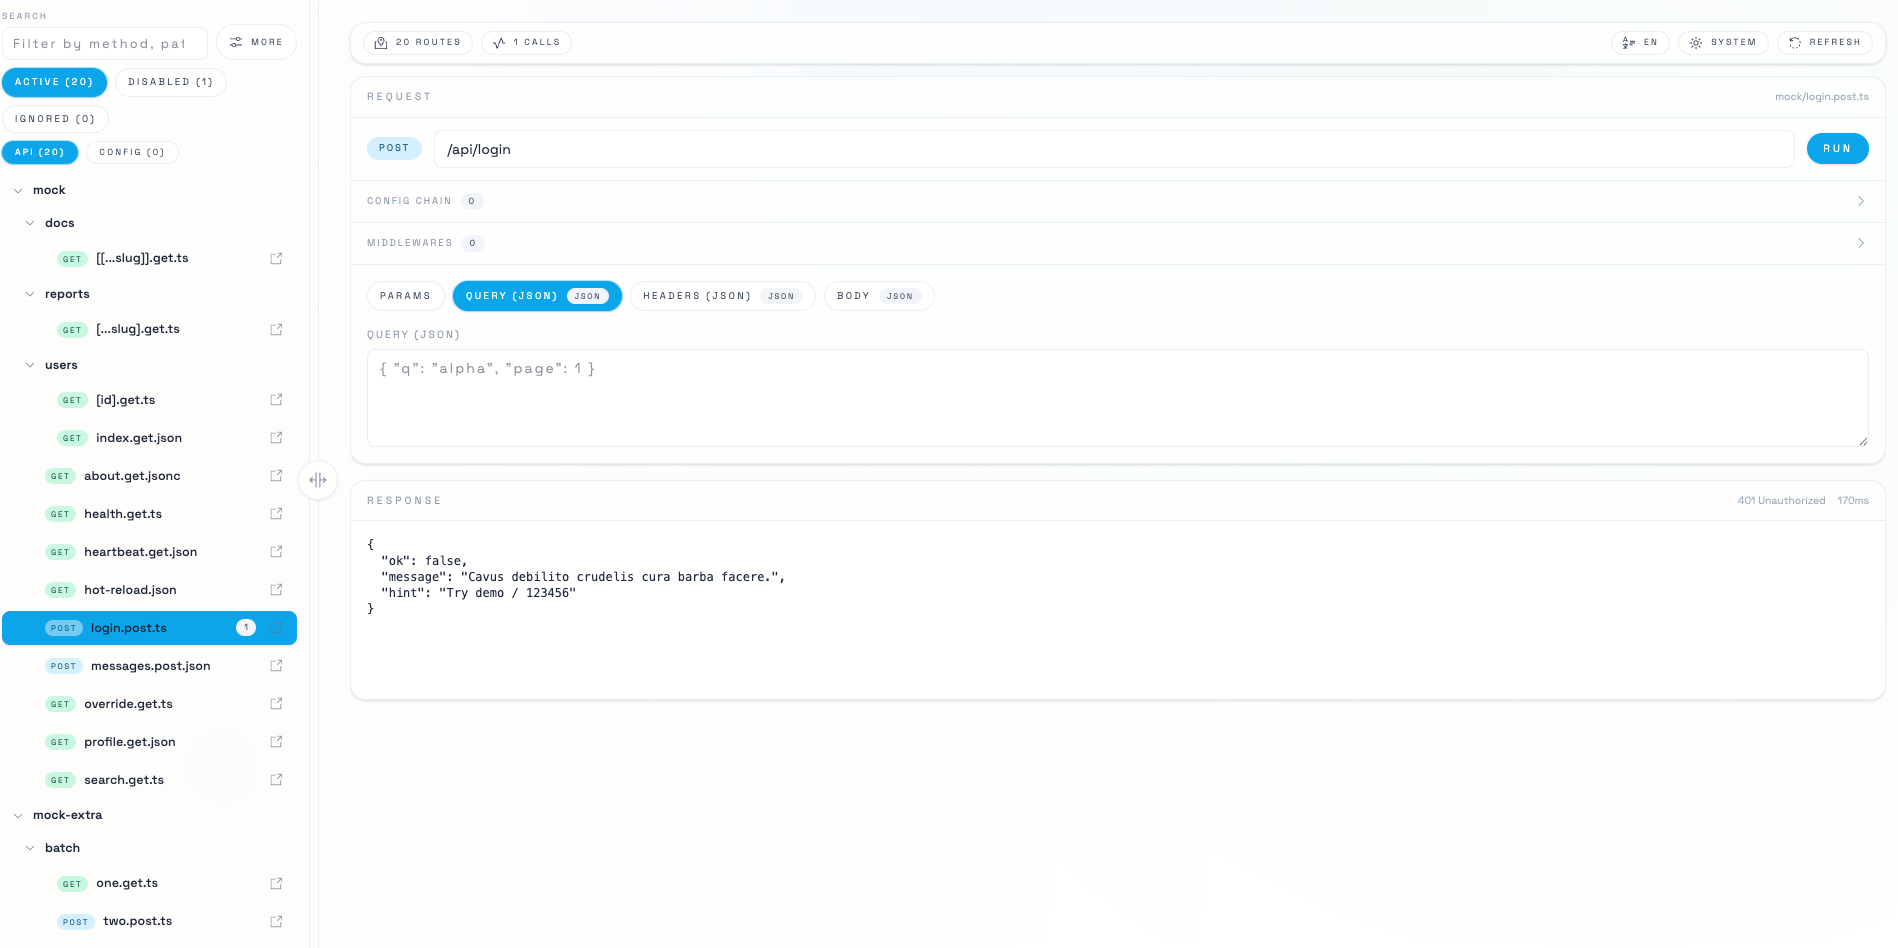
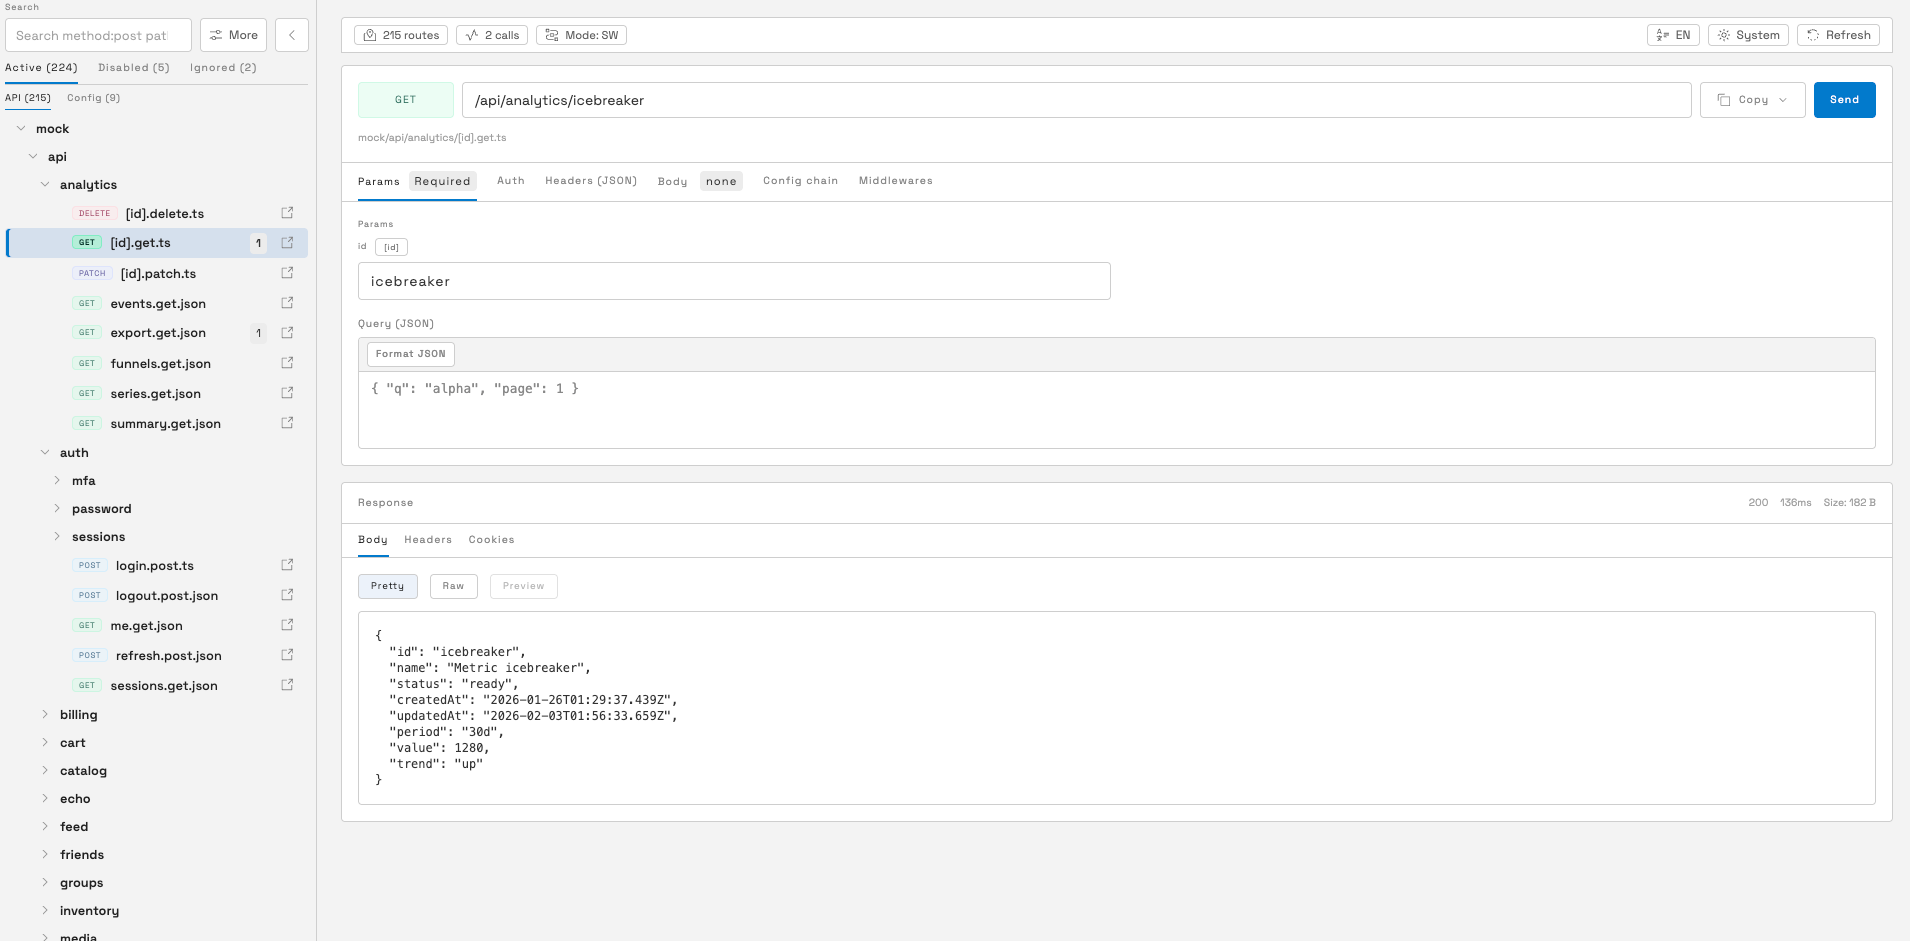
docs: update

diff --git a/apps/mokup-docs/docs/.vitepress/config.ts b/apps/mokup-docs/docs/.vitepress/config.ts
@@ -1,4 +1,5 @@
 import type { DefaultTheme } from 'vitepress'
+import process from 'node:process'
 import tailwindcss from '@tailwindcss/vite'
 import mokup from 'mokup/vite'
 import { defineConfig } from 'vitepress'
@@ -13,6 +14,10 @@ const siteDescription
   = 'Build file-driven HTTP routes with a unified runtime, serving mock or real APIs across dev and deployment.'
 const siteUrl = 'https://mokup.icebreaker.top'
 const ogImage = `${siteUrl}/brand/mokup-logo.svg`
+const isProductionBuild = process.env.NODE_ENV === 'production' || process.argv.includes('build')
+const zhNavWithDraftPreview: DefaultTheme.NavItem[] = isProductionBuild
+  ? zhNav
+  : [...zhNav, { text: '草稿预览', link: '/zh/blog/drafts' }]
 
 const themeConfig: DefaultTheme.Config = {
   socialLinks: [
@@ -71,6 +76,7 @@ export default defineConfig({
   lang: 'en-US',
   cleanUrls: true,
   lastUpdated: true,
+  srcExclude: isProductionBuild ? ['**/*.zh-draft.md', 'zh/blog/drafts.md'] : undefined,
   head: [
     ['link', { rel: 'icon', href: '/favicon.ico' }],
     [
@@ -115,7 +121,7 @@ export default defineConfig({
       description:
         '面向 Vite、Node 与 Worker 的文件式 HTTP 框架，统一运行时，覆盖 Mock 到真实 API 的完整流程。',
       themeConfig: {
-        nav: zhNav,
+        nav: zhNavWithDraftPreview,
         sidebar: zhSidebar,
         outlineTitle: '本页目录',
       },

diff --git a/apps/mokup-docs/docs/blog/mokup-unified-mock-library.zh-draft.md b/apps/mokup-docs/docs/blog/mokup-unified-mock-library.zh-draft.md
@@ -1,65 +1,38 @@
-# Mokup：统一运行时的 Mock 库（草稿）
+# Mokup：构建工具友好的可视化 Mock 工具（草稿）
 
 ![Mokup Logo](../public/brand/mokup-logo.svg)
 
-大家好，我是 icebreaker，一名前端开发者兼开源爱好者。这是我的 [GitHub](https://github.com/sonofmagic)。
+大家好，我是 [icebreaker](https://github.com/sonofmagic)，一名前端开发者兼开源爱好者。
+这篇文章只讲三件事：**构建工具友好、可视化、开发体验好**。
 
-这篇不是长篇论文，而是我把“写 mock 写到怀疑人生”的经验，浓缩成一个项目：Mokup。
-
-项目地址：[GitHub](https://github.com/sonofmagic/mokup)
-官网与文档：http://mokup.icebreaker.top/
-
-## 要点速览
-
-- Mokup 是一个“统一运行时”的 HTTP mock 库。
-- 写一次 mock，能在 Vite/Node/Service Worker/Worker 里跑。
-- 核心是：文件路由 + manifest + 同一套 runtime。
-- 适合想降低联调成本、减少“写一次改三次”的团队。
-- 如果你热爱在三个环境里修同一个 bug，这篇可以先收藏，慢慢看（我懂你）。
+项目地址：[GitHub](https://github.com/sonofmagic/mokup) , 官网与文档：http://mokup.icebreaker.top/
 
 ## Mokup 是什么
 
-Mokup 是一个基于文件路由的 HTTP mock 库，强调“统一运行时”。
+Mokup 是一个基于文件路由的 HTTP Mock 工具。你把 mock 文件放在 `mock/` 目录里，它会自动生成可匹配的路由并提供响应。
 
-你把 mock 文件放在 `mock/` 目录下，Mokup 会扫描生成 manifest，运行时读取 manifest 来匹配请求并输出响应。
+它的目标很直接：让 mock 在你已有的前端工程里尽快跑起来，减少“为了联调再造一套服务”的成本。
 
-一句话：写一次，统一运行，环境只是适配器。
+## 特性
 
-支持的场景：
+- 构建工具友好：Vite / Webpack 都能接，不需要推翻现有工程。
+- 可视化：内置 Playground，路由是否生效一眼可见。
+- 开发体验好：mock 文件和目录配置改完就刷新，不用频繁重启。
+- 能部署到多个环境：本地开发、Node 服务端、Worker、Service Worker 都可用。
 
-- Vite/Webpack dev server 中间件（本地开发）
-- 浏览器 Service Worker（更接近真实网络行为）
-- Node 服务端适配器（Express/Koa/Fastify/Hono/Connect）
-- Worker 运行时（Cloudflare Worker 等边缘环境）
+## 为什么要做它
 
-## 我为什么要写 Mokup
+很多团队的痛点不是“不会写 mock”，而是：
 
-我想要一个更好的本地 mock 体验，但又不想为每个运行时维护一套逻辑。
+- 接入步骤多，换个构建工具就要重配一次。
+- 本地排查时看不到全局路由状态，只能翻文件猜。
+- 每改一个 mock 都要重启或手动验证，反馈慢。
 
-现实是：浏览器、Node、Worker 都有各自的规则。很多工具在单一环境里很爽，一跨环境就变成“迁移与改造季”。
+Mokup 就是为了解决这三个问题：接入更轻、可视化更强、开发反馈更快。
 
-这会发生什么？
+## 构建工具友好
 
-- 前端同学为了联调改来改去，成本飙升。
-- 选型同学为了稳定性背锅，压力拉满。
-- 团队为了“能跑”写了一堆不同版本的 mock，最后谁也不想维护。
-
-我不想再在三个环境里背同一个锅。于是有了 Mokup。
-
-## 一分钟心智模型
-
-1. 扫描 `mock/` 目录，生成路由 manifest。
-2. runtime 使用 manifest 匹配请求并执行响应逻辑。
-3. 各种适配器（Vite/Node/Worker）共享同一套 runtime。
-4. 生产环境可直接复用构建产物（manifest + handler bundle）。
-
-这意味着：路由规则一致、响应逻辑一致、部署方式可选。
-
-![统一运行时流程图](../public/blog/mokup-unified-mock-library/unified-runtime-flow.svg)
-
-## 快速开始（Vite）
-
-接入 Vite 插件：
+### Vite 接入
 
 ```ts
 import mokup from 'mokup/vite'
@@ -73,18 +46,59 @@ export default {
 }
 ```
 
-编写 mock 处理器：
+然后这时候 你就可以在 `mock/` 目录里放 mock 文件了，Mokup 会自动扫描并生成对应的路由。
+
+你也可以在你的 CLI 中快速访问 mokup 的 playground 进行可视化调试
+
+![CLI](../public/blog/mokup-unified-mock-library/cli.png)
+
+### Webpack 接入
+
+```js
+const { mokupWebpack } = require('mokup/webpack')
+
+const withMokup = mokupWebpack({
+  entries: { dir: 'mock', prefix: '/api' },
+})
+
+module.exports = withMokup({})
+```
+
+你可以在不改动业务代码结构的情况下，把 mock 能力挂到现有构建流程里。
+
+## 可视化：Playground（重点）
+
+Mokup 内置 Playground，用来查看当前被扫描到的路由、方法、路径和配置链。
+
+Vite 开发时默认入口：
+
+```txt
+http://localhost:5173/__mokup
+```
+
+![Playground 入口（终端提示）](../public/blog/mokup-unified-mock-library/playground.png)
+
+它解决的是一个非常实际的问题：
+接口不生效时，你不用到处 grep，只要打开页面就能看到“有没有被扫到、有没有被禁用、匹配到了什么配置”。
+
+## 开发体验：哪些文件会热更新
+
+在 Vite dev 下，Mokup 会监听 mock 目录变化并自动刷新路由表。常见会触发热更新的改动包括：
+
+- 新增/修改/删除 mock 路由文件，例如：
+  - `mock/users.get.ts`
+  - `mock/messages.get.json`
+  - `mock/orders/[id].patch.ts`
+- 修改目录配置文件：`mock/**/index.config.ts`
+- 调整目录结构（移动、重命名、创建子目录）
+
+改完后 Playground 会自动刷新路由列表，调试链路更短。
+如果你不需要监听，可以在 `entries` 里配置 `watch: false`。
+
+## 快速示例：从写文件到看到结果
 
 ```ts
 // mock/users.get.ts
-export default {
-  handler: c => c.json([{ id: 1, name: 'Ada' }]),
-}
-```
-
-提示：可以使用 `defineHandler` 包裹导出以获得更好的类型提示：
-
-```ts
 import { defineHandler } from 'mokup'
 
 export default defineHandler({
@@ -92,51 +106,47 @@ export default defineHandler({
 })
 ```
 
-启动 Vite 并访问 `/api/users`，你会得到一份真实可用的响应。之后这套路由还能直接迁移到 Node 或 Worker，无需重写。
+启动 dev 后访问 `/api/users` (你设置了 `prefix: '/api'` )，即可拿到 mock 数据。
 
-![mock 目录结构示例](../public/blog/mokup-unified-mock-library/mock-folder-tree.svg)
+![mock 目录结构示例](../public/blog/mokup-unified-mock-library/mock-dir.png)
 
-## 可视化 Playground（重点）
+## 快速集成 mock 数据库（@faker-js/faker）
 
-Mokup 内置了一个可视化 Playground，用来浏览与调试当前扫描到的 mock 路由。
+Mokup 的 handler 本质上就是 TS/JS 函数，所以能直接接入 `@faker-js/faker` 这类 mock 数据库，不需要额外适配层。
 
-在 Vite 开发时默认访问路径：
-
-```
-http://localhost:5173/__mokup
-```
-
-![Playground 入口（终端提示）](../public/blog/mokup-unified-mock-library/playground.png)
-
-你会看到分组后的路由列表、方法/路径信息、以及每个路由的目录配置链。
-
-![Playground 路由详情与配置链](../public/blog/mokup-unified-mock-library/playground-route-detail.svg)
-
-作用很简单：不用翻文件，就能确认这个接口到底有没有被扫到、是不是被禁了。
-当你新增或修改 mock 文件时，Playground 会自动刷新路由列表，调试成本会明显降低。
-
-如果你希望自定义入口或关闭 Playground，可以在插件配置里设置：
+下面这个示例会根据查询参数 `size` 返回一组用户列表：
 
 ```ts
-import mokup from 'mokup/vite'
+// mock/users.get.ts
+import { faker } from '@faker-js/faker'
+import { defineHandler } from 'mokup'
 
-export default {
-  plugins: [
-    mokup({
-      entries: { dir: 'mock', prefix: '/api' },
-      playground: { path: '/__mokup', enabled: true },
-    }),
-  ],
-}
+export default defineHandler((c) => {
+  const size = Number(c.req.query('size') ?? 10)
+  const count = Number.isNaN(size) ? 10 : Math.min(Math.max(size, 1), 50)
+  const list = Array.from({ length: count }, () => ({
+    id: faker.string.uuid(),
+    name: faker.person.fullName(),
+    email: faker.internet.email(),
+    city: faker.location.city(),
+    createdAt: faker.date.recent({ days: 30 }).toISOString(),
+  }))
+
+  return c.json({
+    list,
+    total: 200,
+    page: 1,
+    pageSize: count,
+  })
+})
 ```
 
-若不传 `playground`，默认会开启并使用 `/__mokup`（等价于 `playground: { path: '/__mokup', enabled: true }`），同时 `build` 默认是 `false`；如需关闭则设为 `playground: false`。
+这对列表页、搜索页、详情页联调都很实用。
+如果你希望测试结果可复现，可以在 handler 顶部加上 `faker.seed(123)`。
 
-## 同一套 mock 部署到 Worker
+## 可部署到多个环境
 
-如果你希望把本地 mock 迁移到 Worker 运行时，可以用构建产物和 Worker helper：
-
-提示：`virtual:mokup-bundle` 这个虚拟模块仅在 Vite 与 `@cloudflare/vite-plugin` 的集成环境里可用；非该环境请使用对应平台的构建产物或接入方式。
+如果你需要把这套 mock 带到不同部署环境，Mokup 也提供了对应能力。以 Worker 为例：
 
 ```ts
 import { createMokupWorker } from 'mokup/server/worker'
@@ -145,54 +155,19 @@ import mokupBundle from 'virtual:mokup-bundle'
 export default createMokupWorker(mokupBundle)
 ```
 
-或者使用 fetch handler：
-
-```ts
-import { createFetchHandler } from 'mokup/server/fetch'
-import mokupBundle from 'virtual:mokup-bundle'
-
-const handler = createFetchHandler(mokupBundle)
-export default { fetch: request => handler(request) }
-```
-
-![Worker 构建或运行示意](../public/blog/mokup-unified-mock-library/cli.png)
-
-这样你就能在边缘环境复用本地的 mock 逻辑，避免多套实现。
+提示：`virtual:mokup-bundle` 仅在 Vite 与 `@cloudflare/vite-plugin` 集成环境可用；其他环境使用对应构建产物即可。
 
 ## 适用场景与边界
 
 适合：
 
-- 需要“前端与服务端 mock 一致性”的团队或项目
-- 希望 mock 能随环境迁移（本地/Node/Worker）的应用
-- 追求可维护性的 mock 体系（统一路由规则与响应逻辑）
+- 已有 Vite/webpack 工程，想低成本接入 mock 的团队
+- 需要可视化路由排查能力的项目
+- 重视开发反馈速度，希望 mock 修改后立即可见的场景
 
 不太适合：
 
-- 强依赖复杂动态代理/转发的场景
-- 希望完全由浏览器注入、无构建流程的轻量 mock
-- 对运行时体积极度敏感、又不愿做拆分的项目
+- 主要依赖复杂动态代理链路的场景
+- 完全不希望引入构建期/插件能力的极轻量脚本方案
 
-## 常见问题（FAQ）
-
-**Q1：Playground 会不会在生产环境也暴露出来？**
-默认不会。`build` 默认是 `false`，生产构建不会输出 Playground；需要时再显式开启即可。
-（放心，它不会主动在互联网上“开门迎客”，除非你点了允许。）
-
-**Q2：可以只给一部分接口用 Mokup 吗？**
-可以。你可以用 `entries.prefix` 把 mock 约束在某个前缀下，只接管指定范围。
-这样你就能让真实接口和 mock 和平共处，互不打扰。
-
-**Q3：我能只在本地用，线上不用吗？**
-当然可以。Mokup 的设计就是“环境可选”，本地跑、线上停都行。
-（你可以把它当作“只在开发时出现的队友”，不会强行上生产。）
-
-**Q4：有没有更好的类型提示？**
-有。用 `defineHandler` 包裹导出，就能获得更友好的类型提示与校验。
-
-**Q5：最小迁移到 Node/Worker 的示例有吗？**
-有。Node 端用 `createFetchHandler`，Worker 用 `createMokupWorker`；在 Vite + `@cloudflare/vite-plugin` 集成环境可直接复用 `virtual:mokup-bundle`，其他环境用对应构建产物即可。
-（你只需要换个壳，路由逻辑不用改。）
-
-Mokup 的定位不是“替代所有 mock 方案”，而是让 mock 在更多环境里保持一致。
-如果你的团队已经被“写一次改三次”折磨过，这是一次值得尝试的解药。
+Mokup 不是为了替代所有 mock 方案，而是让 mock 更快接入、更好调试、更贴近日常开发流程。

diff --git a/apps/mokup-docs/docs/zh/blog/drafts.md b/apps/mokup-docs/docs/zh/blog/drafts.md
@@ -1,0 +1,7 @@
+# 博客草稿预览
+
+> 该页面仅用于本地开发预览。生产构建会排除本页面与所有 `*.zh-draft.md` 草稿文档。
+
+## 草稿列表
+
+- [Mokup：构建工具友好的可视化 Mock 工具（草稿）](/blog/mokup-unified-mock-library.zh-draft)
